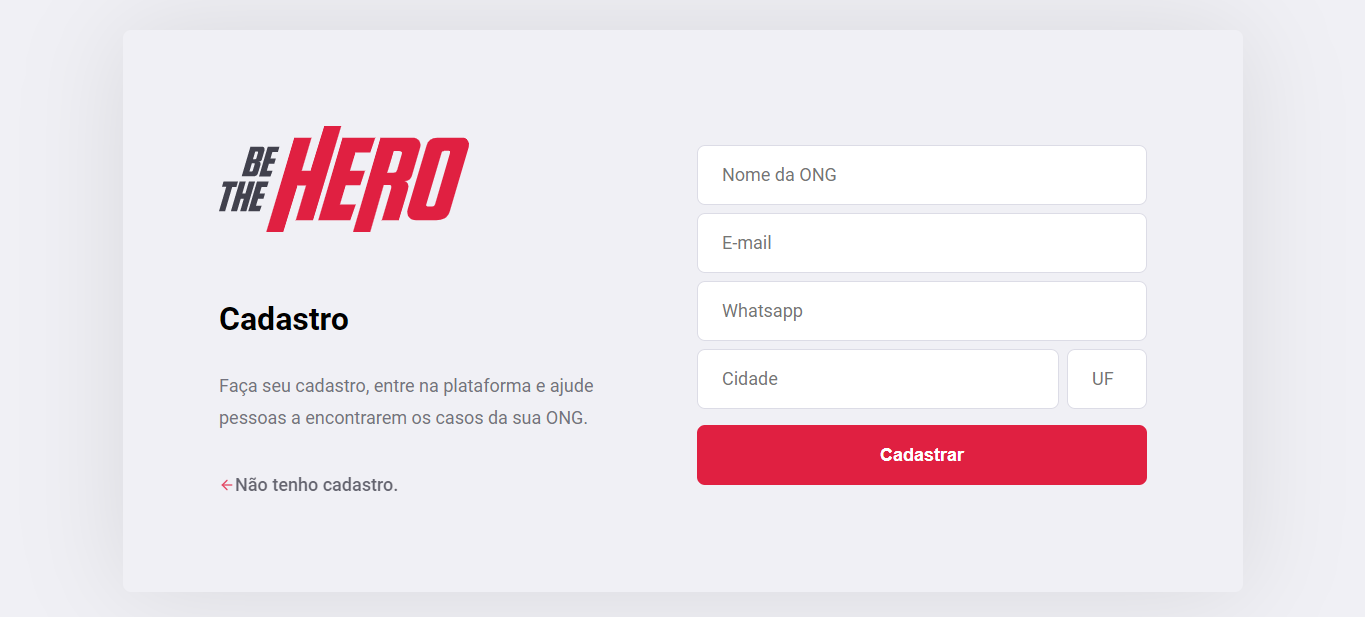
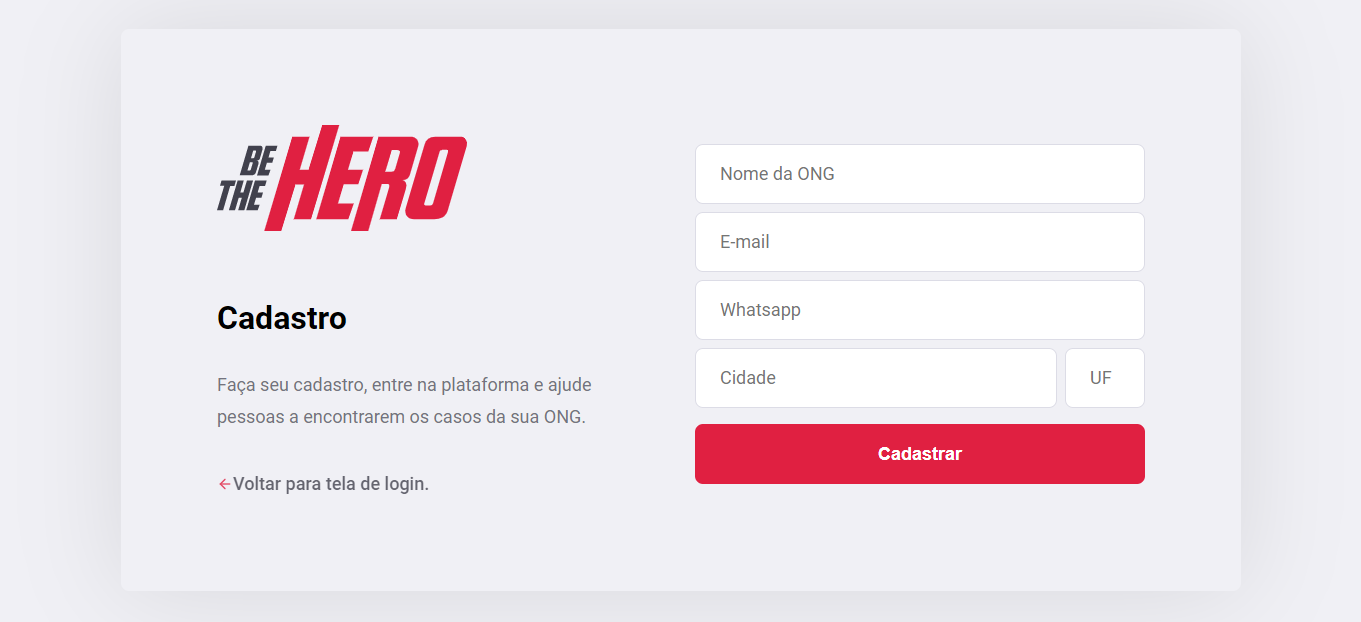
Correção de erro na tela de Cadastro de ong no botão de voltar para tela de Login e da imagem no readme.

diff --git a/frontend/src/pages/Register/index.js b/frontend/src/pages/Register/index.js
@@ -58,7 +58,7 @@ export default function Register() {
 
           <Link className="back-link" to="/">
             <FiArrowLeft size={16} color="#E02041" />
-            Não tenho cadastro.
+            Voltar para tela de login.
           </Link>
         </section>
 
